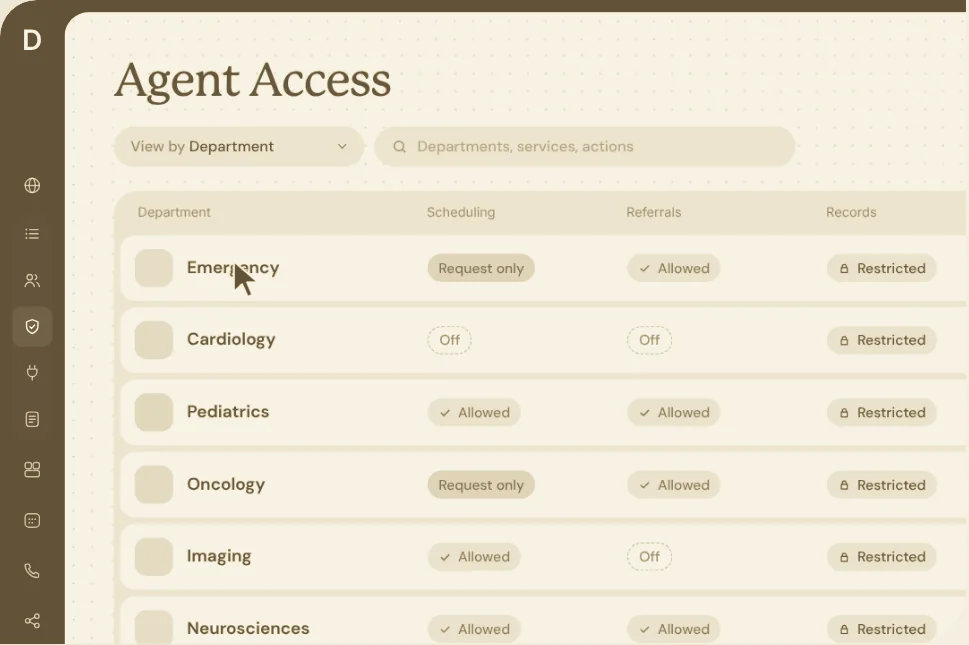
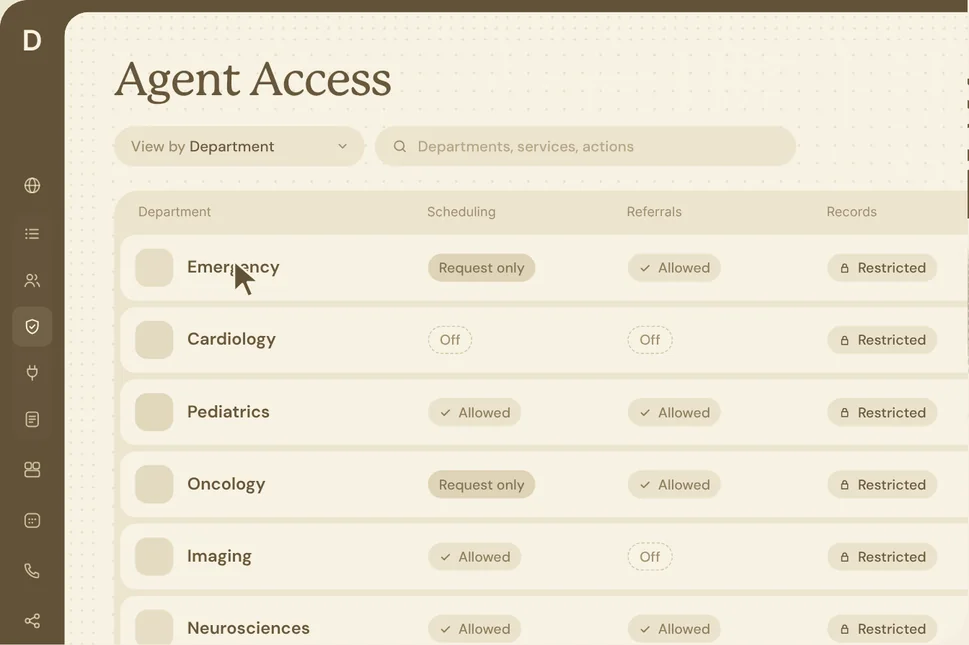
earlypreview: remove the square seam in the Agent Access and Network boxes
The film is inset off the rail and top edge, leaving a strip of the
shell's paper whose dot grid did not meet the scaled film's, so their
edge read as a square line. The strip's dots are now matched to the
film's paper once it is drawn. iPhone stills re-captured.

Claude-Session: https://claude.ai/code/session_01EmNa9sU45d49GNut3o7Pn7

diff --git a/components/earlypreview/EarlyPreviewAuthShell.tsx b/components/earlypreview/EarlyPreviewAuthShell.tsx
@@ -1,6 +1,9 @@
 "use client";
 
+import { useEffect, useRef } from "react";
+
 import { AuditCard } from "@/remotion/video2/Section2Permissions";
+import { C } from "@/remotion/video1/theme";
 import { ShadowsContext } from "@/remotion/video1/ui";
 import { dmSans, inter, p22Mackinac } from "@/lib/home/fonts";
 import { EarlyPreviewProductFilmFrame, type EarlyPreviewProductFilm } from "@/components/earlypreview/EarlyPreviewProductFilmFrame";
@@ -49,6 +52,45 @@ const FILM = { w: 1920, h: 1080 };
 /** Cover the paper with the film, so the film runs off its edges and leaves no paper showing. */
 const FILM_SCALE = Math.max(PAPER.w / FILM.w, PAPER.h / FILM.h);
 
+/** The dot grid the films' and the shell's paper share, in their own pixels. */
+const DOT = 18;
+const DOTS = "radial-gradient(rgba(40, 25, 16, 0.09) 1px, transparent 1.3px)";
+
+/**
+ * A film kept off the rail and the top edge (`inset`) leaves a strip of the shell's own paper round it, and the film's
+ * paper is scaled, so the two dot grids did not meet: their edge read as a square line inside the page. Once the film
+ * is drawn, this finds the film's paper and lays the strip's dots on the same spacing and phase, so it is one page.
+ */
+function useMatchedDots(stripRef: React.RefObject<HTMLDivElement | null>, filmRef: React.RefObject<HTMLDivElement | null>) {
+  useEffect(() => {
+    const strip = stripRef.current;
+    const film = filmRef.current;
+    if (!strip || !film) return undefined;
+    let raf = 0;
+    let tries = 0;
+    const match = () => {
+      const paper = Array.from(film.querySelectorAll<HTMLElement>("div")).find((el) => el.style.backgroundSize === `${DOT}px ${DOT}px`);
+      if (!paper) {
+        if (tries++ < 120) raf = requestAnimationFrame(match);
+        return;
+      }
+      const s = strip.getBoundingClientRect();
+      const f = paper.getBoundingClientRect();
+      // The whole box is scaled to fit its slide; measure in the strip's own pixels.
+      const k = s.width / strip.offsetWidth;
+      const size = (DOT * f.width) / paper.offsetWidth / k;
+      if (!(size > 0)) return;
+      const x = (f.left - s.left) / k;
+      const y = (f.top - s.top) / k;
+      strip.style.backgroundSize = `${size}px ${size}px`;
+      strip.style.backgroundPosition = `${x}px ${y}px`;
+      strip.style.backgroundImage = DOTS;
+    };
+    raf = requestAnimationFrame(match);
+    return () => cancelAnimationFrame(raf);
+  }, [stripRef, filmRef]);
+}
+
 /** `anchor: "start"` holds the film's left edge to the paper's, so the film's left-hand UI is never the part that is cut. */
 export function EarlyPreviewFilmShell({
   film,
@@ -67,6 +109,9 @@ export function EarlyPreviewFilmShell({
   /** Keeps the film's page this far (in artboard px) off the rail and the top edge, as the other boxes' pages sit. */
   inset?: { x: number; y: number };
 }) {
+  const stripRef = useRef<HTMLDivElement>(null);
+  const filmRef = useRef<HTMLDivElement>(null);
+  useMatchedDots(stripRef, filmRef);
   const ix = inset?.x ?? 0;
   const iy = inset?.y ?? 0;
   const area = { w: PAPER.w - ix, h: PAPER.h - iy };
@@ -77,8 +122,10 @@ export function EarlyPreviewFilmShell({
     <div className={`${dmSans.variable} ${inter.className} ${p22Mackinac.className}`} style={{ width: SHELL.w, height: SHELL.h }}>
       <ShadowsContext.Provider value={false}>
         <ProductShell active={active}>
+          {/* The paper round an inset film, its dots matched to the film's once it is drawn (plain until then). */}
+          {inset ? <div ref={stripRef} style={{ position: "absolute", inset: 0, background: C.paper }} /> : null}
           <div style={{ position: "absolute", left: ix, top: iy, width: area.w, height: area.h, overflow: "hidden" }}>
-            <div style={{ position: "absolute", left, top, width: FILM.w, height: FILM.h, transform: `scale(${scale})`, transformOrigin: "0 0" }}>
+            <div ref={filmRef} style={{ position: "absolute", left, top, width: FILM.w, height: FILM.h, transform: `scale(${scale})`, transformOrigin: "0 0" }}>
               <EarlyPreviewProductFilmFrame film={film} frame={frame} />
             </div>
           </div>
